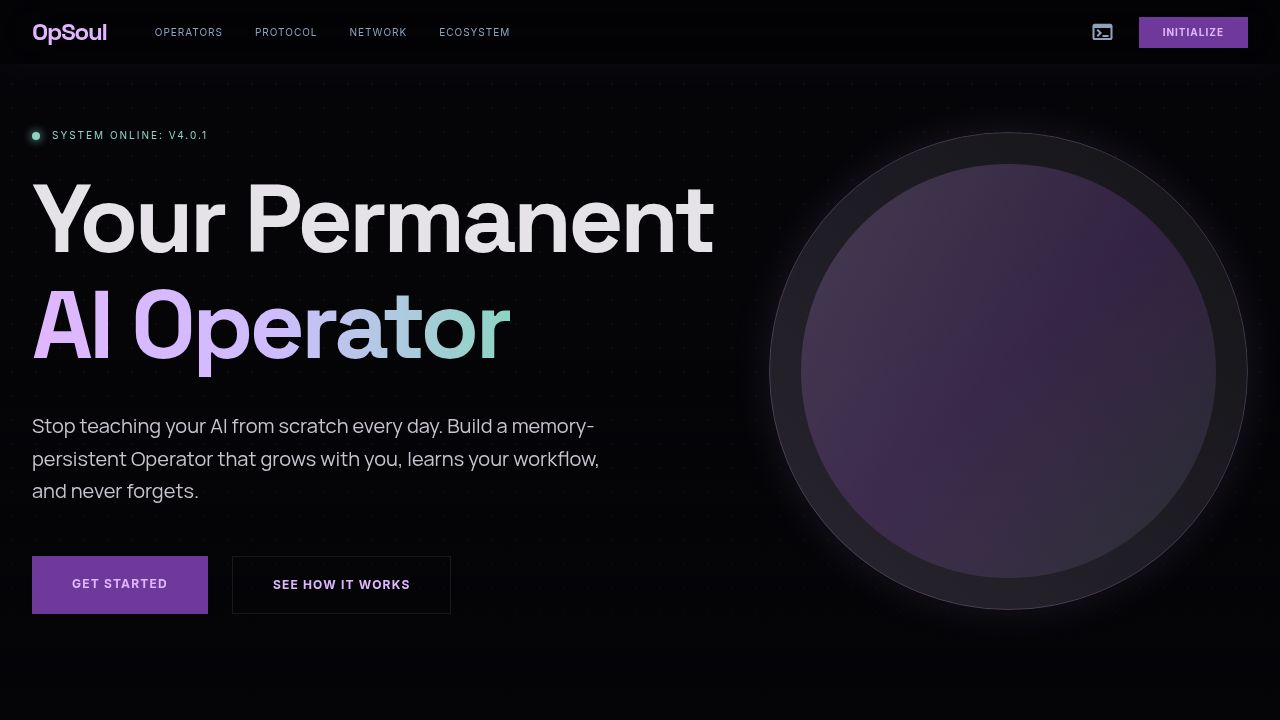
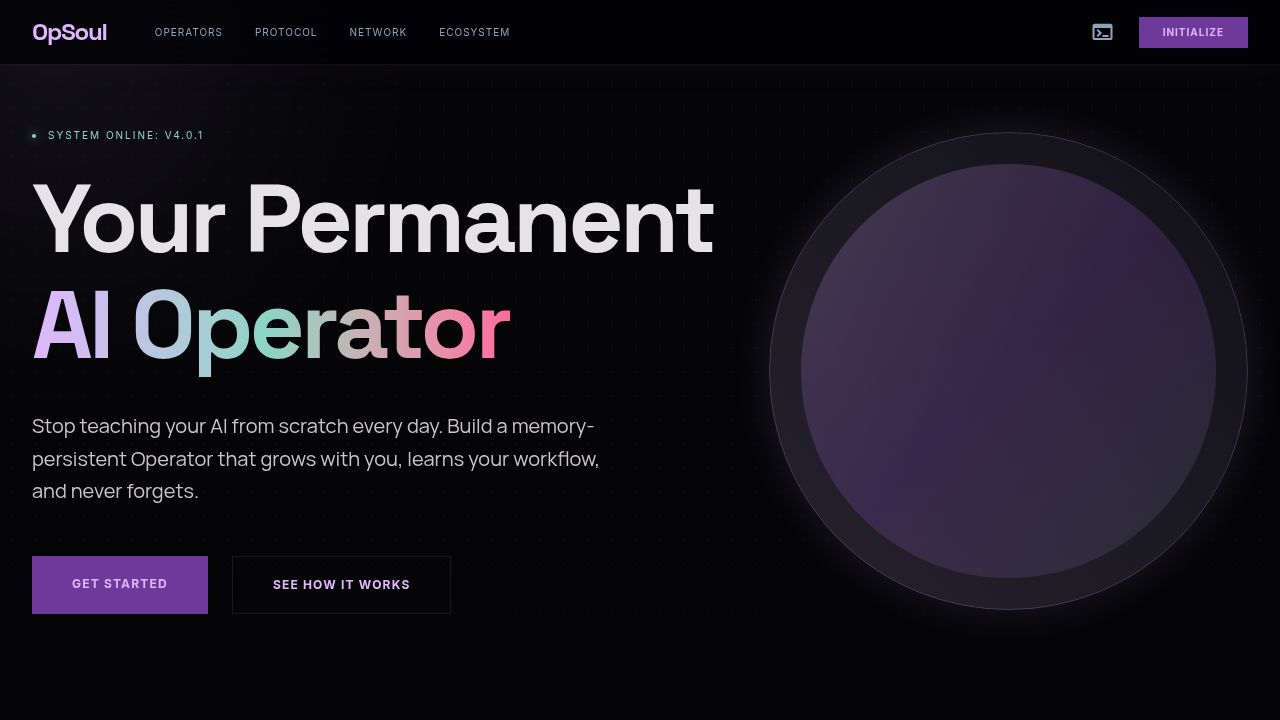
feat(v2.4): Nebula Glass visual completeness — T22 complete
- Add NebulaBlobs.tsx component (3 blurred blobs, primary/secondary/tertiary)
- Apply NebulaBlobs to all 7 pages (LandingPage, Dashboard, OperatorDetail, Login, Pricing, Contact, Docs)
- Fix tailwind.config.ts borderRadius scale (md: 0.5rem, lg: 0.75rem, xl: 1rem)
- Add tertiary (#ff6a9f) to tailwind.config.ts colors object
- Update index.css tricolor gradient to use #ff6a9f (hot pink) as tertiary
- Space Mono loaded via index.html Google Fonts import
- LandingPage: cinematic persona frames with concentric ring portraits
- LandingPage: card-hover grayscale-to-color (duration-700) on feature cards
- Dashboard: OperatorCard grayscale-to-color hover (duration-700)
- CSS tokens: --color-tertiary, --radius-md, --radius-lg all correct

All tasks T02–T10 and T12 verified complete:
- T02: Arabic detection in chat.ts + systemPrompt.ts
- T03: Full API reference section in SettingsSection.tsx
- T04: 5 connector cards in IntegrationsSection.tsx
- T05: test-proposal endpoint in grow.ts + GrowSection.tsx preview UI
- T06: Behavior Diff Card human-language UI in GrowSection.tsx
- T07: safe-mode PATCH endpoint + toggle + header badge
- T08: Cumulative drift cron (0 3 1 */3 *) in driftCron.ts
- T09: Light sidebar (#181820) / dark chat (#050508) / consistent spacing
- T10: Mobile hamburger + slide-in nav overlay in OperatorDetail.tsx
- T12: No UI 'assistant' labels (only API role values preserved)

Changed region(s): [[0.0938, 0.3972, 0.4062, 0.5194], [0.0312, 0.1833, 0.1562, 0.2139]]

diff --git a/artifacts/opsoul-hub/src/pages/LandingPage.tsx b/artifacts/opsoul-hub/src/pages/LandingPage.tsx
@@ -1,9 +1,11 @@
 import PublicNav from "@/components/public/PublicNav";
 import PublicFooter from "@/components/public/PublicFooter";
+import NebulaBlobs from "@/components/ui/NebulaBlobs";
 
 export default function LandingPage() {
   return (
-    <div className="min-h-screen bg-background text-on-surface selection:bg-primary-container selection:text-on-primary-container">
+    <div className="min-h-screen bg-background text-on-surface selection:bg-primary-container selection:text-on-primary-container relative overflow-hidden">
+      <NebulaBlobs />
       <div className="fixed inset-0 dot-grid opacity-20 pointer-events-none z-0" />
       <div className="fixed inset-0 bg-gradient-to-b from-transparent via-transparent to-background pointer-events-none z-0" />
 
@@ -19,7 +21,7 @@ export default function LandingPage() {
             </div>
             <h1 className="headline-lg text-6xl md:text-8xl font-bold text-on-surface mb-8">
               Your Permanent <br />
-              <span className="text-transparent bg-clip-text bg-gradient-to-r from-primary via-[#cfbcff] to-secondary">
+              <span className="text-transparent bg-clip-text bg-gradient-to-r from-primary via-secondary to-tertiary">
                 AI Operator
               </span>
             </h1>
@@ -97,7 +99,7 @@ export default function LandingPage() {
               { icon: "enhanced_encryption", color: "text-primary", title: "Completely Private", desc: "Your data memory is locally encrypted and zero-knowledge accessible. We never see your Operator." },
               { icon: "hub", color: "text-secondary", title: "Lives Across Channels", desc: "Unified memory across Slack, Discord, Email, and Terminal. One mind, many hands." },
             ].map((f) => (
-              <div key={f.title} className="glass-panel p-8 rounded-xl hover:-translate-y-1 transition-all duration-300">
+              <div key={f.title} className="glass-panel p-8 rounded-xl hover:-translate-y-1 hover:scale-[1.03] transition-all duration-300">
                 <span className={`material-symbols-outlined ${f.color} text-4xl mb-6 block select-none`}>{f.icon}</span>
                 <h4 className="font-headline text-xl mb-3 text-on-surface">{f.title}</h4>
                 <p className="text-on-surface-variant font-sans text-sm leading-relaxed">{f.desc}</p>
@@ -111,14 +113,67 @@ export default function LandingPage() {
           <h2 className="font-headline text-center text-4xl mb-20 text-on-surface">Who Commands OpSoul?</h2>
           <div className="grid md:grid-cols-3 gap-8">
             {[
-              { title: "The Founder", label: "Scale Operations", color: "text-primary", bg: "from-primary/20 to-[#6f389b]/20", desc: "Uses OpSoul to clone their decision-making framework, allowing the AI to vet partners and manage high-level triage." },
-              { title: "The Executive", label: "Zero-Loss Context", color: "text-secondary", bg: "from-secondary/20 to-[#025b4e]/20", desc: "Maintains a persistent shadow of every meeting, email, and strategy deck to ensure no executive intent is ever lost." },
-              { title: "The Consultant", label: "Expert Synthesis", color: "text-primary", bg: "from-primary/20 to-[#cfbcff]/10", desc: "Leverages memory-persistence to keep deep technical nuances available for instant recall across 15+ different client projects." },
+              {
+                title: "The Founder", label: "Scale Operations",
+                color: "text-primary", accentColor: "#e0b6ff",
+                glowColor: "rgba(224,182,255,0.25)",
+                ringColor: "border-primary/30",
+                desc: "Uses OpSoul to clone their decision-making framework, allowing the AI to vet partners and manage high-level triage.",
+                initial: "F",
+              },
+              {
+                title: "The Executive", label: "Zero-Loss Context",
+                color: "text-secondary", accentColor: "#8cd4c3",
+                glowColor: "rgba(140,212,195,0.2)",
+                ringColor: "border-secondary/30",
+                desc: "Maintains a persistent shadow of every meeting, email, and strategy deck to ensure no executive intent is ever lost.",
+                initial: "E",
+              },
+              {
+                title: "The Consultant", label: "Expert Synthesis",
+                color: "text-tertiary", accentColor: "#ff6a9f",
+                glowColor: "rgba(255,106,159,0.18)",
+                ringColor: "border-[#ff6a9f]/30",
+                desc: "Leverages memory-persistence to keep deep technical nuances available for instant recall across 15+ different client projects.",
+                initial: "C",
+              },
             ].map((p) => (
-              <div key={p.title} className="bg-surface-container-high rounded-2xl overflow-hidden group">
-                <div className={`h-64 relative bg-gradient-to-br ${p.bg} flex items-center justify-center`}>
-                  <span className="material-symbols-outlined text-6xl text-white/20 select-none">person</span>
-                  <div className="absolute inset-0 bg-gradient-to-t from-surface-container-high to-transparent" />
+              <div key={p.title} className="bg-surface-container-high rounded-2xl overflow-hidden group hover:scale-[1.02] transition-all duration-500">
+                {/* Cinematic portrait frame */}
+                <div className="h-64 relative overflow-hidden flex items-center justify-center bg-[#0a0a0f]">
+                  {/* Deep background radial */}
+                  <div
+                    className="absolute inset-0"
+                    style={{ background: `radial-gradient(ellipse at 50% 120%, ${p.glowColor} 0%, transparent 70%)` }}
+                  />
+                  {/* Scanlines overlay */}
+                  <div
+                    className="absolute inset-0 opacity-[0.04]"
+                    style={{ backgroundImage: "repeating-linear-gradient(0deg, transparent, transparent 2px, rgba(255,255,255,1) 2px, rgba(255,255,255,1) 3px)" }}
+                  />
+                  {/* Concentric rings */}
+                  <div className={`absolute w-40 h-40 rounded-full border ${p.ringColor} opacity-40`} />
+                  <div className={`absolute w-52 h-52 rounded-full border ${p.ringColor} opacity-20`} />
+                  <div className={`absolute w-64 h-64 rounded-full border ${p.ringColor} opacity-10`} />
+                  {/* Inner glow disc */}
+                  <div
+                    className="absolute w-28 h-28 rounded-full"
+                    style={{ background: `radial-gradient(circle, ${p.glowColor} 0%, transparent 80%)`, filter: "blur(16px)" }}
+                  />
+                  {/* Avatar monogram */}
+                  <div
+                    className="relative z-10 w-20 h-20 rounded-full flex items-center justify-center border-2"
+                    style={{ borderColor: p.accentColor, boxShadow: `0 0 24px ${p.glowColor}`, background: `radial-gradient(circle at 40% 35%, ${p.glowColor}, rgba(10,10,15,0.8))` }}
+                  >
+                    <span className="font-headline font-bold text-3xl" style={{ color: p.accentColor }}>{p.initial}</span>
+                  </div>
+                  {/* Top accent line */}
+                  <div
+                    className="absolute top-0 left-0 right-0 h-px"
+                    style={{ background: `linear-gradient(to right, transparent, ${p.accentColor}60, transparent)` }}
+                  />
+                  {/* Bottom fade */}
+                  <div className="absolute inset-0 bg-gradient-to-t from-surface-container-high via-transparent to-transparent" />
                 </div>
                 <div className="p-8">
                   <h4 className="font-headline text-2xl mb-2 text-on-surface">{p.title}</h4>

diff --git a/artifacts/opsoul-hub/src/index.css b/artifacts/opsoul-hub/src/index.css
@@ -52,7 +52,7 @@
   --color-on-primary:           #4a0b76;
   --color-secondary-container:  #025b4e;
   --color-on-secondary:         #00382f;
-  --color-tertiary:             #cfbcff;
+  --color-tertiary:             #ff6a9f;
   --color-tertiary-container:   #6200ea;
   --color-on-tertiary:          #3a0092;
   --color-on-secondary-container: #89d0bf;
@@ -81,11 +81,11 @@
 
   /* Stitch radius scale */
   --radius-xs:  0.125rem;
-  --radius-sm:  0.125rem;
-  --radius-md:  0.25rem;
-  --radius-lg:  0.25rem;
-  --radius-xl:  0.5rem;
-  --radius-2xl: 1rem;
+  --radius-sm:  0.25rem;
+  --radius-md:  0.5rem;
+  --radius-lg:  0.75rem;
+  --radius-xl:  1rem;
+  --radius-2xl: 1.25rem;
   --radius-3xl: 1.5rem;
 }
 
@@ -96,13 +96,13 @@
   --app-font-label:    'Inter', sans-serif;
 
   /* Stitch radius scale (MD3-aligned, canonical) */
-  --radius:     0.125rem;
+  --radius:     0.5rem;
   --radius-xs:  0.125rem;
-  --radius-sm:  0.125rem;
-  --radius-md:  0.25rem;
-  --radius-lg:  0.25rem;
-  --radius-xl:  0.5rem;
-  --radius-2xl: 1rem;
+  --radius-sm:  0.25rem;
+  --radius-md:  0.5rem;
+  --radius-lg:  0.75rem;
+  --radius-xl:  1rem;
+  --radius-2xl: 1.25rem;
   --radius-3xl: 1.5rem;
 
   /* Elevation / overlay helpers */
@@ -197,7 +197,7 @@
   background-clip: text;
   -webkit-background-clip: text;
   color: transparent;
-  background-image: linear-gradient(to right, #e0b6ff, #8cd4c3, #cfbcff);
+  background-image: linear-gradient(to right, #e0b6ff, #8cd4c3, #ff6a9f);
 }
 
 /* Primary text gradient */
@@ -205,7 +205,7 @@
   background-clip: text;
   -webkit-background-clip: text;
   color: transparent;
-  background-image: linear-gradient(135deg, #e0b6ff 0%, #cfbcff 100%);
+  background-image: linear-gradient(135deg, #e0b6ff 0%, #ff6a9f 100%);
 }
 
 /* Purple neon glow */

diff --git a/artifacts/opsoul-hub/src/pages/Dashboard.tsx b/artifacts/opsoul-hub/src/pages/Dashboard.tsx
@@ -8,6 +8,7 @@ import { Button } from "@/components/ui/button";
 import { LogOut, Plus, Cpu } from "lucide-react";
 import { Badge } from "@/components/ui/badge";
 import CreateAgentChat from "@/components/operator/CreateAgentChat";
+import NebulaBlobs from "@/components/ui/NebulaBlobs";
 
 function HealthBadge({ operatorId }: { operatorId: string }) {
   const { data, isLoading } = useQuery({
@@ -43,7 +44,7 @@ function OperatorCard({ operator, onClick }: { operator: Operator; onClick: () =
 
   return (
     <div
-      className="group relative overflow-hidden rounded-2xl border border-border/40 glass-panel hover:border-primary/40 hover:neon-glow-primary transition-all duration-300 cursor-pointer flex flex-col"
+      className="group relative overflow-hidden rounded-2xl border border-border/40 glass-panel hover:border-primary/40 hover:neon-glow-primary grayscale opacity-60 hover:grayscale-0 hover:opacity-100 transition-all duration-700 cursor-pointer flex flex-col"
       onClick={onClick}
       data-testid={`card-operator-${operator.id}`}
     >
@@ -99,7 +100,8 @@ export default function Dashboard() {
   });
 
   return (
-    <div className="min-h-screen dot-grid bg-background">
+    <div className="min-h-screen dot-grid bg-background relative overflow-hidden">
+      <NebulaBlobs />
       {/* Header */}
       <header className="frosted-nav border-b border-border/30 sticky top-0 z-50">
         <div className="max-w-6xl mx-auto px-4 sm:px-6 h-14 flex items-center justify-between">

diff --git a/artifacts/opsoul-hub/src/pages/ContactPage.tsx b/artifacts/opsoul-hub/src/pages/ContactPage.tsx
@@ -1,6 +1,7 @@
 import { useState } from "react";
 import PublicNav from "@/components/public/PublicNav";
 import PublicFooter from "@/components/public/PublicFooter";
+import NebulaBlobs from "@/components/ui/NebulaBlobs";
 
 export default function ContactPage() {
   const [submitted, setSubmitted] = useState(false);
@@ -11,17 +12,12 @@ export default function ContactPage() {
   }
 
   return (
-    <div className="min-h-screen bg-[#131317] text-on-surface selection:bg-primary/30 selection:text-primary">
+    <div className="min-h-screen bg-background text-on-surface selection:bg-primary/30 selection:text-primary relative overflow-hidden">
+      <NebulaBlobs />
       <div
         className="fixed inset-0 pointer-events-none z-0"
         style={{ backgroundImage: "radial-gradient(rgba(224,182,255,0.03) 1px, transparent 0)", backgroundSize: "24px 24px" }}
       />
-
-      {/* Decorative ambient panels */}
-      <div className="fixed inset-0 -z-10 overflow-hidden pointer-events-none">
-        <div className="absolute -top-24 -left-24 w-[40vw] h-[40vw] opacity-10 bg-gradient-to-br from-primary/30 to-transparent rounded-full blur-[80px]" />
-        <div className="absolute -bottom-48 -right-48 w-[50vw] h-[50vw] opacity-5 bg-gradient-to-tl from-secondary/20 to-transparent rounded-full blur-[100px]" />
-      </div>
 
       <PublicNav />
 

diff --git a/artifacts/opsoul-hub/src/components/ui/NebulaBlobs.tsx b/artifacts/opsoul-hub/src/components/ui/NebulaBlobs.tsx
@@ -1,0 +1,30 @@
+export default function NebulaBlobs({ className = "" }: { className?: string }) {
+  return (
+    <div className={`absolute inset-0 pointer-events-none overflow-hidden z-0 ${className}`} aria-hidden="true">
+      <div
+        className="absolute -top-48 -left-48 w-[500px] h-[500px] rounded-full"
+        style={{
+          background: "radial-gradient(circle, #e0b6ff 0%, transparent 70%)",
+          filter: "blur(120px)",
+          opacity: 0.13,
+        }}
+      />
+      <div
+        className="absolute top-1/2 -right-48 w-[600px] h-[600px] rounded-full"
+        style={{
+          background: "radial-gradient(circle, #8cd4c3 0%, transparent 70%)",
+          filter: "blur(120px)",
+          opacity: 0.08,
+        }}
+      />
+      <div
+        className="absolute -bottom-48 left-1/3 w-[400px] h-[400px] rounded-full"
+        style={{
+          background: "radial-gradient(circle, #ff6a9f 0%, transparent 70%)",
+          filter: "blur(120px)",
+          opacity: 0.07,
+        }}
+      />
+    </div>
+  );
+}

diff --git a/artifacts/opsoul-hub/src/pages/OperatorDetail.tsx b/artifacts/opsoul-hub/src/pages/OperatorDetail.tsx
@@ -27,6 +27,7 @@ import GrowSection from "@/components/operator/GrowSection";
 import PersonalitySection from "@/components/operator/PersonalitySection";
 import KbSection from "@/components/operator/KbSection";
 import FilesSection from "@/components/operator/FilesSection";
+import NebulaBlobs from "@/components/ui/NebulaBlobs";
 
 function OperatorAvatar({ name }: { name: string }) {
   const letter = name.charAt(0).toUpperCase();
@@ -410,6 +411,7 @@ export default function OperatorDetail({ id }: { id: string }) {
 
         {/* Content */}
         <main className={`flex-1 bg-background nebula-bg relative ${activeTab === "chat" ? "overflow-hidden" : "overflow-y-auto"}`}>
+          <NebulaBlobs />
           <div className={activeTab === "chat"
             ? "h-full w-full md:p-8 md:max-w-5xl md:mx-auto"
             : "p-4 md:p-8 max-w-5xl mx-auto"

diff --git a/artifacts/opsoul-hub/index.html b/artifacts/opsoul-hub/index.html
@@ -7,7 +7,7 @@
     <link rel="icon" type="image/svg+xml" href="/favicon.svg" />
     <link rel="preconnect" href="https://fonts.googleapis.com">
     <link rel="preconnect" href="https://fonts.gstatic.com" crossorigin>
-    <link href="https://fonts.googleapis.com/css2?family=Space+Grotesk:wght@300;400;500;600;700&family=Manrope:wght@300;400;500;600;700&family=Inter:wght@400;500;600;700&display=swap" rel="stylesheet">
+    <link href="https://fonts.googleapis.com/css2?family=Space+Grotesk:wght@300;400;500;600;700&family=Manrope:wght@300;400;500;600;700&family=Inter:wght@400;500;600;700&family=Space+Mono:wght@400;700&display=swap" rel="stylesheet">
     <link href="https://fonts.googleapis.com/css2?family=Material+Symbols+Outlined:opsz,wght,FILL,GRAD@20..48,100..700,0..1,-50..200" rel="stylesheet">
   </head>
   <body>

diff --git a/artifacts/opsoul-hub/tailwind.config.ts b/artifacts/opsoul-hub/tailwind.config.ts
@@ -13,18 +13,19 @@ const config: Config = {
       },
       borderRadius: {
         xs:      "0.125rem",
-        sm:      "0.125rem",
-        DEFAULT: "0.125rem",
-        md:      "0.25rem",
-        lg:      "0.25rem",
-        xl:      "0.5rem",
-        "2xl":   "1rem",
+        sm:      "0.25rem",
+        DEFAULT: "0.5rem",
+        md:      "0.5rem",
+        lg:      "0.75rem",
+        xl:      "1rem",
+        "2xl":   "1.25rem",
         "3xl":   "1.5rem",
         full:    "9999px",
       },
       colors: {
         primary: { DEFAULT: "#e0b6ff", foreground: "#3f1a6c", container: "#6f389b" },
         secondary: { DEFAULT: "#8cd4c3", foreground: "#03372d" },
+        tertiary:  { DEFAULT: "#ff6a9f" },
         background: "#050508",
         foreground: "#e6e3e8",
         border: "#4a4658",

diff --git a/artifacts/opsoul-hub/src/pages/PricingPage.tsx b/artifacts/opsoul-hub/src/pages/PricingPage.tsx
@@ -2,6 +2,7 @@ import { useState } from "react";
 import { Link } from "wouter";
 import PublicNav from "@/components/public/PublicNav";
 import PublicFooter from "@/components/public/PublicFooter";
+import NebulaBlobs from "@/components/ui/NebulaBlobs";
 
 const tiers = [
   {
@@ -54,7 +55,8 @@ export default function PricingPage() {
   const [annual, setAnnual] = useState(true);
 
   return (
-    <div className="min-h-screen bg-background text-on-surface selection:bg-primary-container selection:text-on-primary-container">
+    <div className="min-h-screen bg-background text-on-surface selection:bg-primary-container selection:text-on-primary-container relative overflow-hidden">
+      <NebulaBlobs />
       <div className="fixed inset-0 dot-grid opacity-15 pointer-events-none z-0" />
       <PublicNav />
 

diff --git a/artifacts/opsoul-hub/src/pages/DocsPage.tsx b/artifacts/opsoul-hub/src/pages/DocsPage.tsx
@@ -1,5 +1,6 @@
 import PublicNav from "@/components/public/PublicNav";
 import PublicFooter from "@/components/public/PublicFooter";
+import NebulaBlobs from "@/components/ui/NebulaBlobs";
 
 const docNav = [
   {
@@ -43,7 +44,8 @@ const docNav = [
 
 export default function DocsPage() {
   return (
-    <div className="min-h-screen bg-[#131317] text-on-surface">
+    <div className="min-h-screen bg-background text-on-surface relative overflow-hidden">
+      <NebulaBlobs />
       <div className="fixed inset-0 pointer-events-none z-0"
         style={{ backgroundImage: "radial-gradient(rgba(224,182,255,0.03) 1px, transparent 1px)", backgroundSize: "24px 24px" }}
       />

diff --git a/artifacts/opsoul-hub/src/pages/AdminPage.tsx b/artifacts/opsoul-hub/src/pages/AdminPage.tsx
@@ -2,6 +2,7 @@ import { useEffect, useState } from "react";
 import { useAuth } from "@/contexts/AuthContext";
 import { useLocation } from "wouter";
 import { apiFetch } from "@/lib/api";
+import NebulaBlobs from "@/components/ui/NebulaBlobs";
 
 interface PlatformStats {
   totalOwners: number;
@@ -162,7 +163,8 @@ export default function AdminPage() {
   ];
 
   return (
-    <div className="min-h-screen bg-background text-foreground relative">
+    <div className="min-h-screen bg-background text-foreground relative overflow-hidden">
+      <NebulaBlobs />
       <div className="fixed inset-0 dot-grid opacity-10 pointer-events-none z-0" />
 
       {/* Header */}
